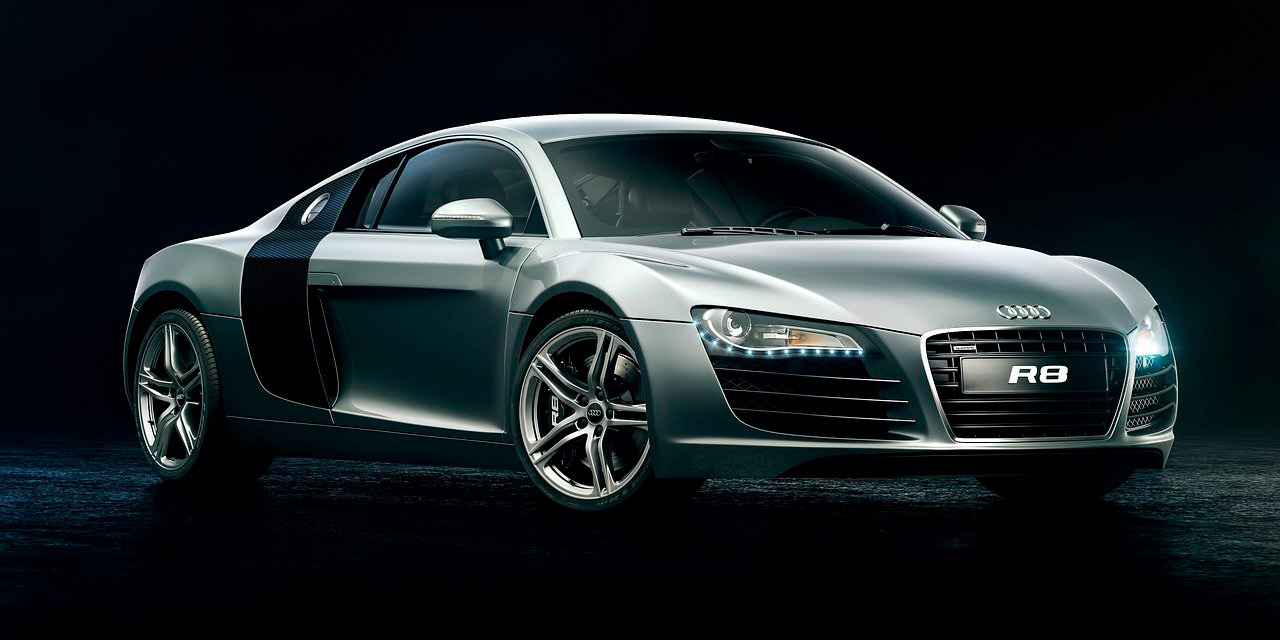
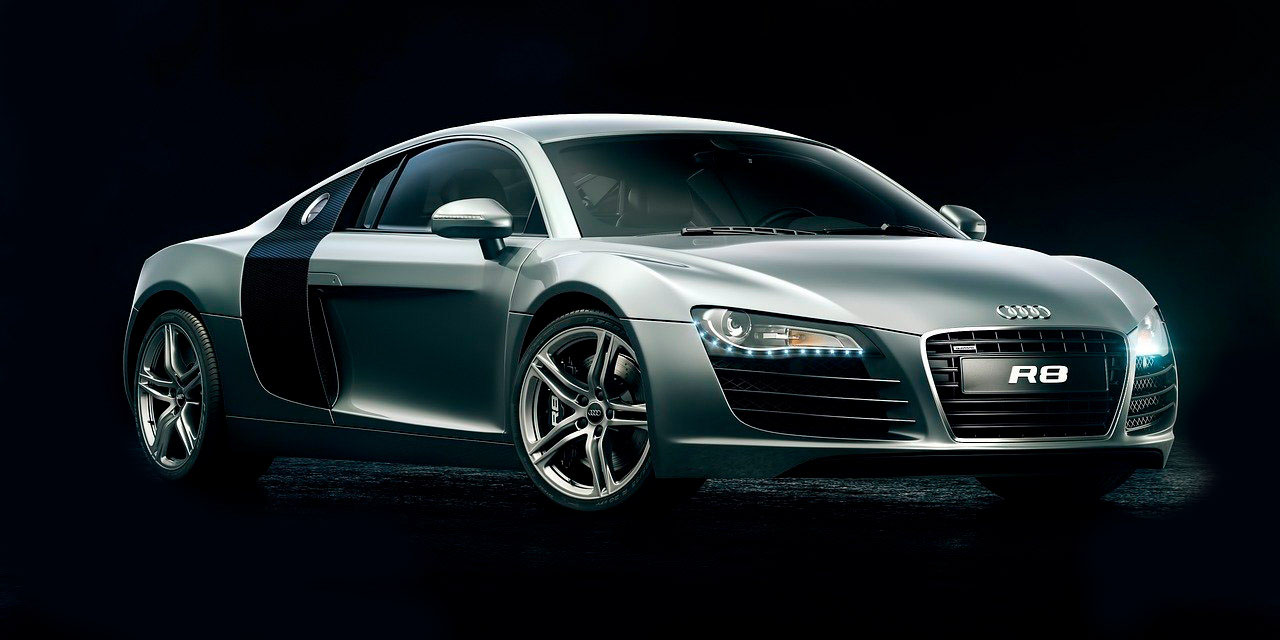
att
media querie

Changed region(s): [[0.9062, 0.6562, 1.0, 0.9062], [0.0, 0.6875, 0.125, 0.8438]]

diff --git a/index.html b/index.html
@@ -16,7 +16,7 @@
                     <img src="img/Logo.png" alt="Logo da horizon">
                 </div>
 
-                <nav>
+                <nav class="desktop">
                     <ul class="menu">
                         <li><a href="#">home</a></li>
                         <li><a href="#">venda</a></li>
@@ -26,14 +26,49 @@
                         <li><a href="#">contato</a></li>
                     </ul>
                 </nav><!--menu desktop-->
+
+                <nav class="mobile">
+                    <input type="checkbox" id="chk">
+                    <label id="menu" for="chk"></label>
+
+                    <ul class="menu">
+                        <li><a href="#">home</a></li>
+                        <li><a href="#">venda</a></li>
+                        <li><a href="#">galeria</a></li>
+                        <li><a href="#">eventos</a></li>
+                        <li><a href="#">sobre nós</a></li>
+                        <li><a href="#">contato</a></li>
+                    </ul>   
+                </nav><!--menu mobile-->
+
             </div><!--container-->
         </header><!--cabeçalho-->
 
         <section class="banner">
             <div class="container">
+                <div class="text-banner">
+                    <div class="text-box">
+                        <h2>consultoria</h2>
+                    </div><!--text box-->
 
+                    <div class="text-box">
+                        <h2>compra</h2>
+                    </div><!--text box-->
+
+                    <div class="text-box">
+                        <h2>venda</h2>
+                    </div><!--text box-->
+
+                    <div class="text-box-white">
+                        <h2>contato@horizon.com</h2>
+                    </div><!--text box white-->
+                </div><!--text banner-->
+
+                <div class="img-banner"></div><!--img-banner-->
             </div><!--container-->
         </section><!--banner-->
+
+        <section class="box"></section>
     </body>
 </html>
 

diff --git a/css/style.css b/css/style.css
@@ -11,6 +11,10 @@
     margin: 0 auto;
 }
 
+.clear{
+    clear: both;
+}
+
 /* HEADER */
 
 header{
@@ -36,16 +40,20 @@ header .container{
     height: 100%;
 }
 
-.menu{
+.mobile{
+    display: none;
+}
+
+.desktop .menu{
     display: flex;
     list-style: none;
 }
 
-.menu li{
+.desktop .menu li{
     padding: 0 15px;
 }
 
-.menu li:last-of-type{
+.desktop .menu li:last-of-type{
     padding-right: 0;
 }
 
@@ -69,11 +77,80 @@ header .container{
 
 .banner{
     width: 100%;
-    height: 70vw;
-    background-color: #010207;
+    background-color: #00030c;
+}
+
+.banner .container{
+    display: flex;
+    max-width: 1920px;
+    align-items: center;
+}
+
+.text-banner{
+    width: 30%;
+    text-align: center;
+}
+
+.text-box{
+    display: inline-block;
+    width: 250px;
+    height: 50px;
+    line-height: 50px;
+    margin-bottom: 8px;
+    background-image: url(../img/box-text.png);
+    background-size: 100% 100%;
+}
+
+.text-box:nth-of-type(2){
+    width: 200px;
+    height: 50px;
+    line-height: 50px;
+    margin-bottom: 8px;
+    background-image: url(../img/box-text.png);
+    background-size: 100% 100%;
+}
+
+.text-box:nth-of-type(3){
+    width: 180px;
+    height: 50px;
+    line-height: 50px;
+    margin-bottom: 8px;
+    background-image: url(../img/box-text.png);
+    background-size: 100% 100%;
+}
+
+
+
+
+
+
+
+
+.text-box h2{
+    color: white;
+    text-transform: uppercase;
+    font-size: 25px;
+    font-weight: normal;
+    font-style: italic;
+}
+
+.text-box-white h2{
+    color: black;
+    text-transform: uppercase;
+    font-size: 20px;
+    font-weight: normal;
+    font-style: italic;
+}
+
+
+.img-banner{
+    width: 70%;
+    height: 30vw;
     background-image: url(../img/bg.jpg);
-    background-size: contain;
-    background-position: right bottom;
+    background-size: cover;
     background-repeat: no-repeat;
 }
+
+
+
 

diff --git a/css/media.css b/css/media.css
@@ -1,9 +1,98 @@
 /* RESPONSIVIDADE*/
 
-@media screen and (max-width: 768px){
+@media screen and (max-width: 1024px){
+
+    /* HEADER */
+
+    header .container{
+        align-items: unset;
+    }
+
+    .desktop{
+        display: none;
+    }
+
+    .mobile{
+        
+        display: inline-block;
+        position: relative;
+        text-align: right;
+    }
+
+    #chk{
+        display: none;
+    }
+
+    #menu{
+        width: 32px;
+        height: 32px;
+        display: inline-block;
+        background-image: url(../img/open-menu.png);
+        background-size: contain;
+        background-repeat: no-repeat;
+        cursor: pointer;
+        position: relative;
+        left: -40px; /*Armengo feio, porém visualmente aceitável*/
+    }
+
+    .mobile .menu{
+        list-style: none;
+        position: absolute;
+        right: 0;
+        opacity: 0;
+        z-index: -1;
+        transition: all 0.4s;
+        text-align: center;
+    }
+
+    .mobile .menu li{
+        width: 120px;
+        background-color: rgb(240,240,240);
+        border-bottom: 1px solid rgb(100,100,100,0.7);
+        margin: 3px 0;
+    }
+
+    #chk:checked ~ .menu{
+        opacity: 1;
+        z-index: 1;
+    }
 
     /* BANNER */
 
+    .img-banner{
+        height: 40vw;
+        background-image: url(../img/bg.jpg);
+        background-size: cover;
+        background-position: center;
+    }
+
+    @media screen and (max-width: 768px){
+
+        /* BANNER */
+
+        .banner .container{
+            flex-wrap: wrap;
+        }
+
+        .text-banner{
+            width: 100%;
+        }
+    
+        .img-banner{
+            width: 100%;
+        }
+    }
+
+    @media screen and (max-width: 375px){
+
+        /* HEADER */
+
+        .logo{
+            width: 125px;
+            height: 60px;
+        }
+        
+    }
     
     
 }
